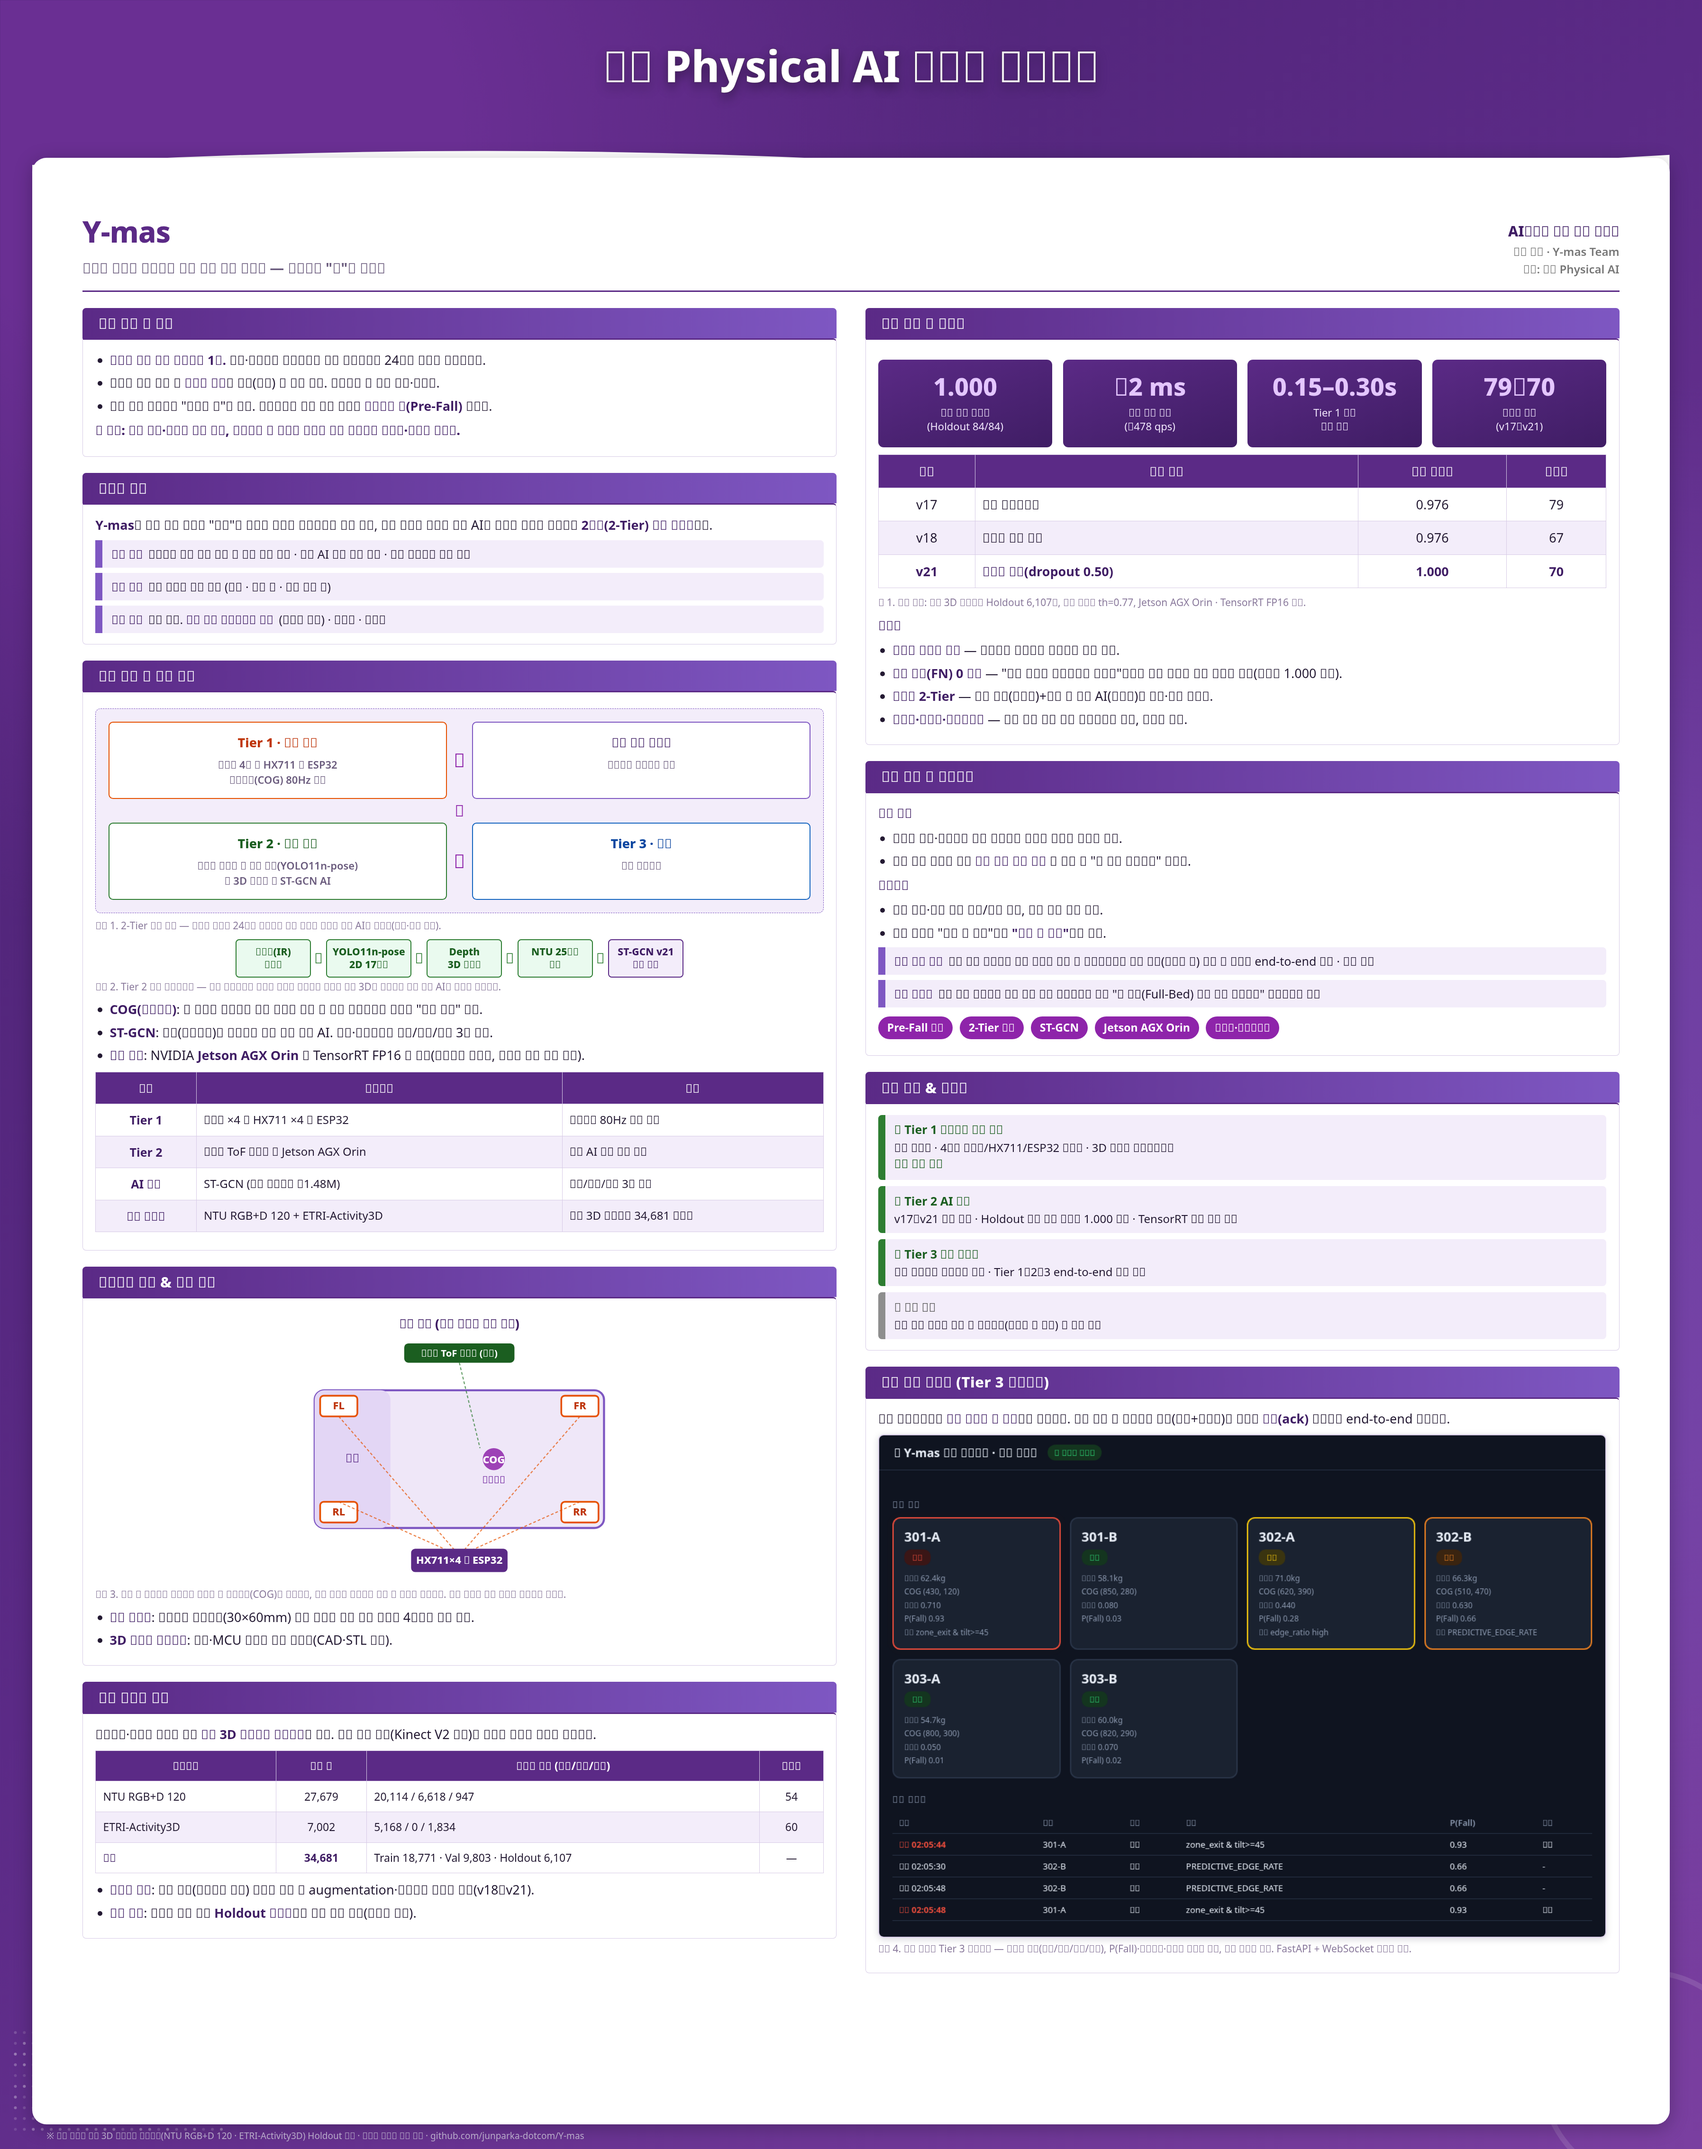
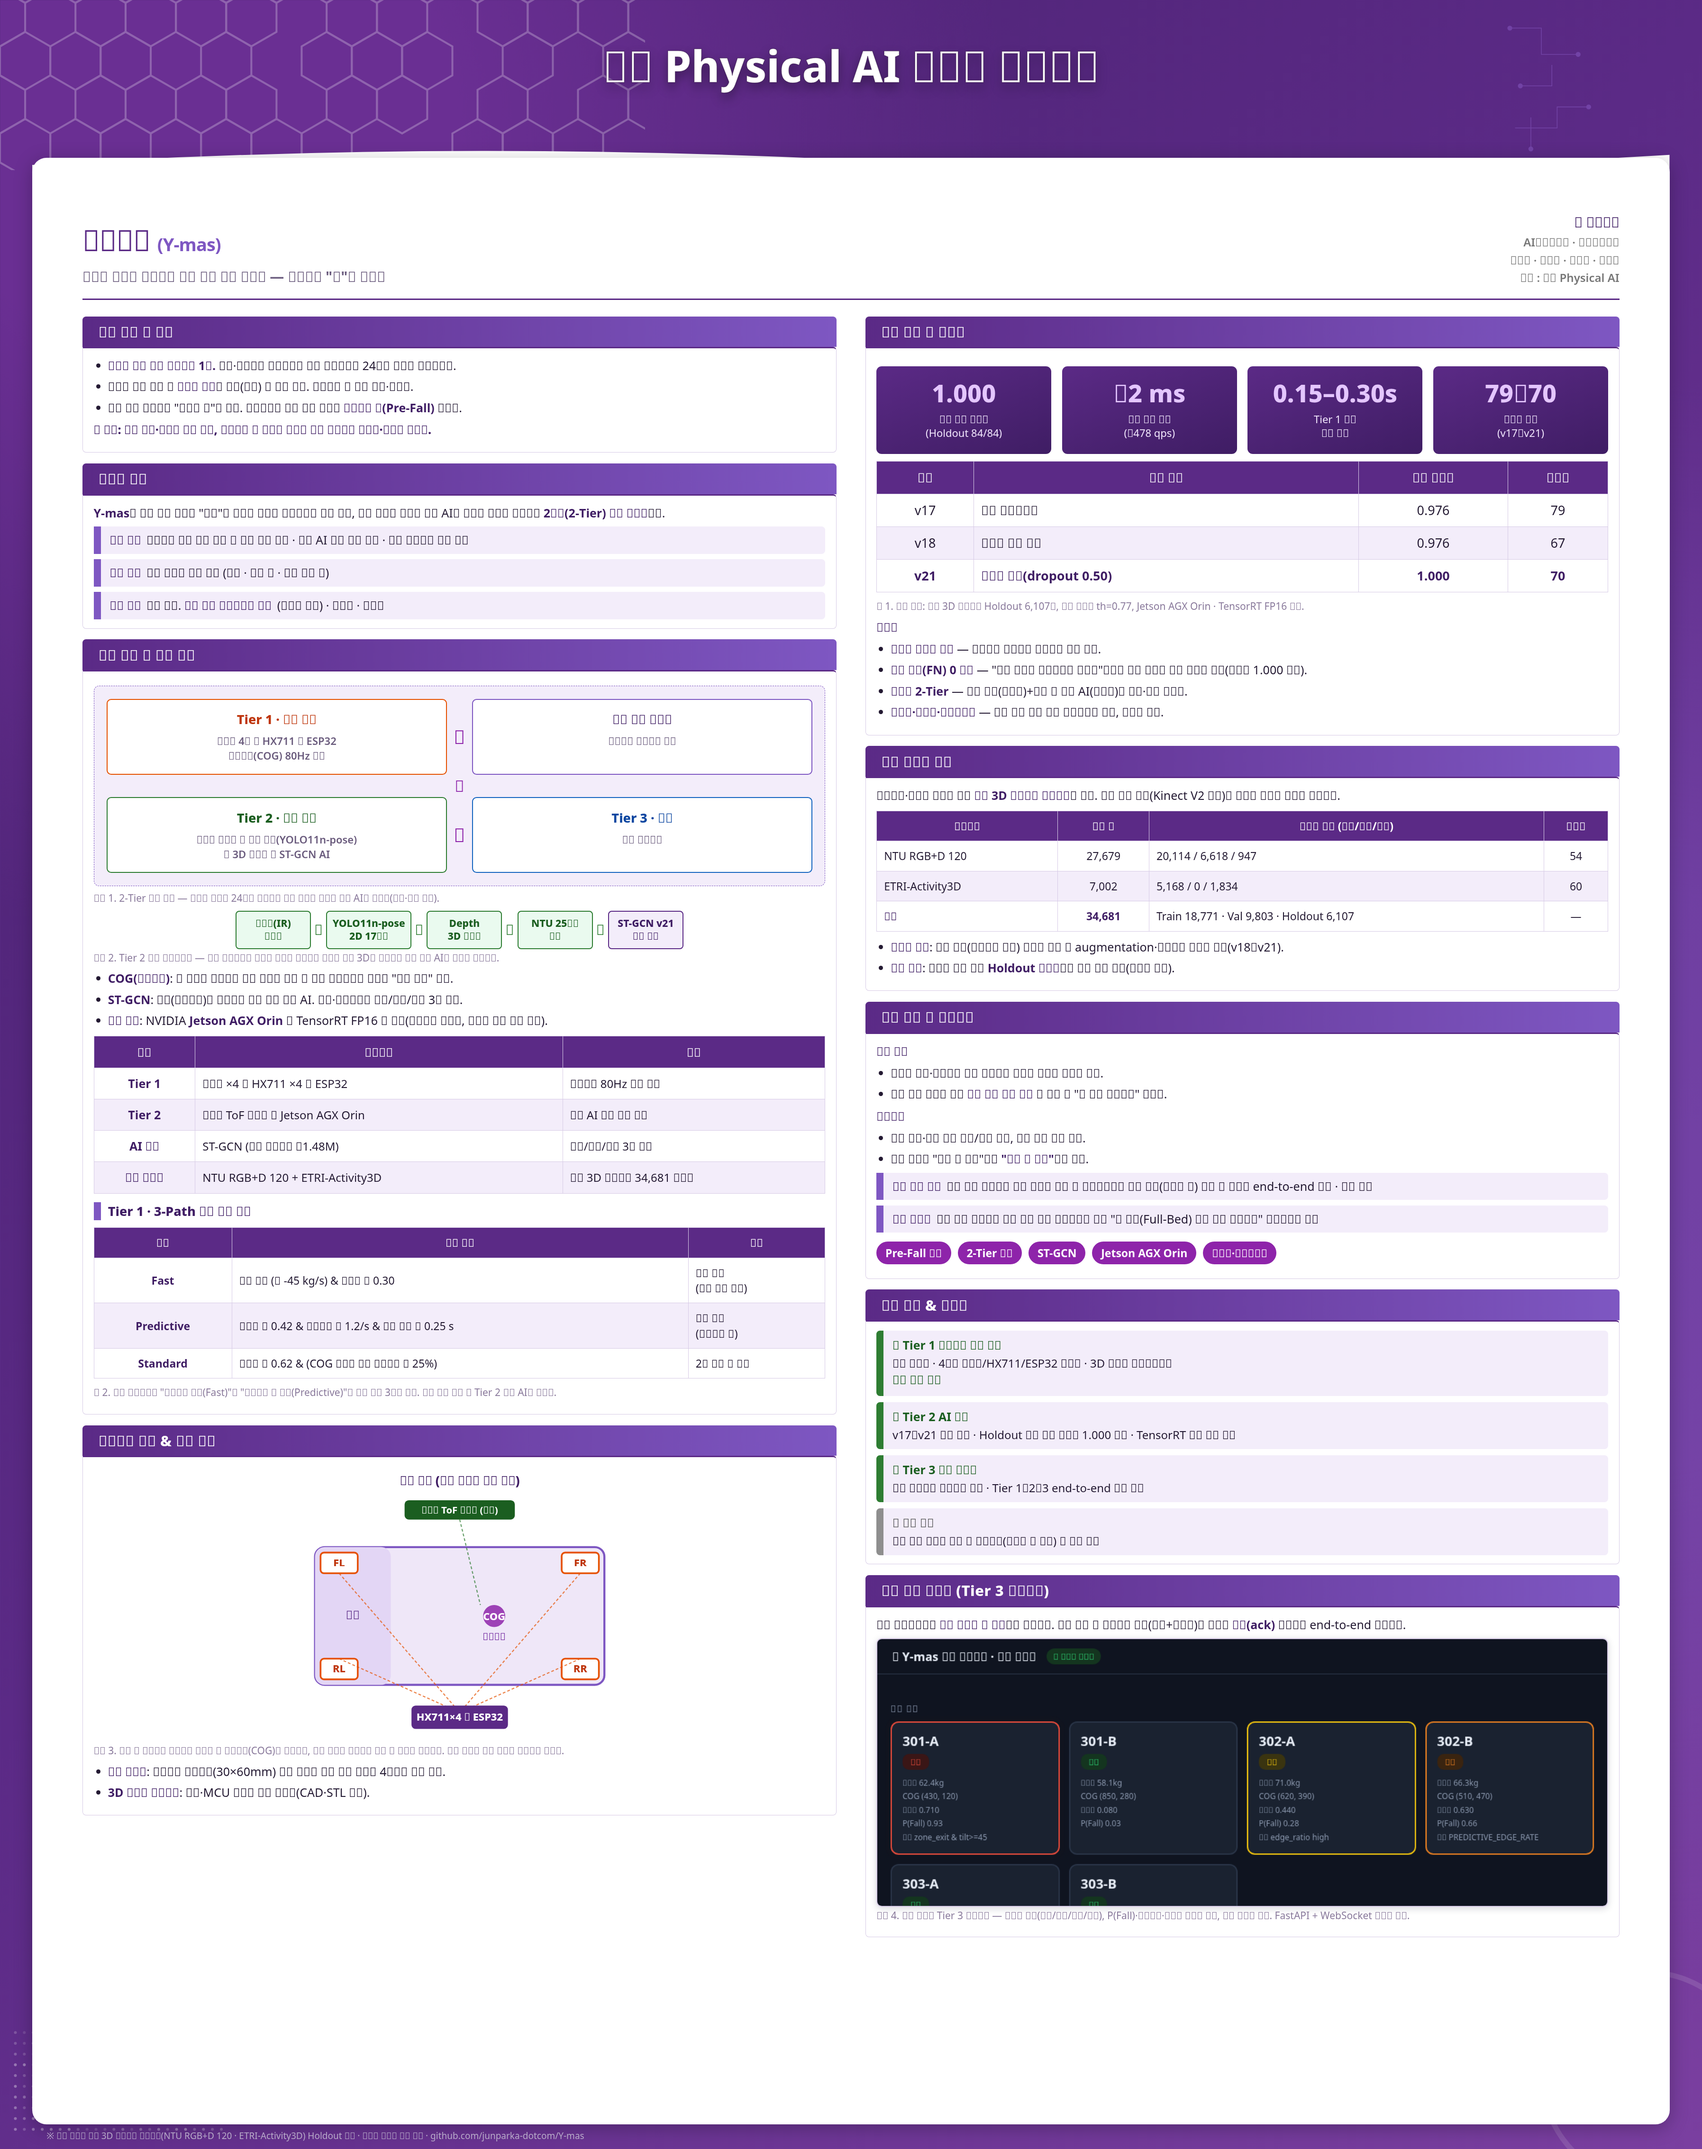
docs(poster): 참고 디자인 반영 고도화 (팀명·3-Path 로직·테크 배경)
- 프로젝트명 '골드타임 (Y-mas)' + 팀 정보(AI반도체학부·물리치료학과,
  박하람·김성경·소정우·윤지원) 반영
- 상단 육각형+회로 테크 패턴 배경 추가(Physical AI 디자인 톤)
- Tier 1 3-Path 조기 판정 로직 표 추가(Fast/Predictive/Standard, 펌웨어 실제 임계값)
- 학습 데이터 섹션을 우측으로 이동해 좌4:우5 균형 재배치
- 여백·폰트 조정으로 전체 콘텐츠를 950x1200mm 영역 안에 안착(약 20mm 여유 검증)

diff --git a/docs/poster/ymas_poster.html b/docs/poster/ymas_poster.html
@@ -50,6 +50,9 @@
     opacity:.18; }
   .dots{ position:absolute; width:120mm; height:60mm; opacity:.5; }
   .dots.bl{ bottom:8mm; left:6mm; }
+  /* 상단 테크 패턴 */
+  .hex{ position:absolute; top:0; left:0; width:360mm; height:95mm; opacity:.5; z-index:1; }
+  .circuit{ position:absolute; top:4mm; right:6mm; width:120mm; height:88mm; opacity:.6; z-index:1; }
   .ring{ position:absolute; border:3mm solid rgba(255,255,255,.12); border-radius:50%; }
   .ring.r1{ width:120mm; height:120mm; right:-30mm; bottom:-20mm; }
   .ring.r2{ width:70mm; height:70mm; right:40mm; bottom:30mm; border-color:rgba(142,36,170,.25); }
@@ -97,13 +100,14 @@
     padding-bottom:7mm; margin-bottom:9mm;
   }
   .phead .pname{ font-size:62px; font-weight:800; color:var(--purple); letter-spacing:-1px; }
+  .phead .pname .eng{ font-size:38px; color:var(--purple-l); font-weight:700; }
   .phead .pname small{ display:block; font-size:30px; color:#6a5b7d; font-weight:700; margin-top:4mm; letter-spacing:0; }
   .phead .team{ text-align:right; font-size:30px; font-weight:800; color:var(--purple-d); line-height:1.55; }
   .phead .team span{ display:block; font-size:24px; color:#777; font-weight:600; }
 
   /* ===== 2단 그리드 ===== */
   .grid{ display:grid; grid-template-columns:1fr 1fr; gap:16mm; flex:1; }
-  .colA,.colB{ display:flex; flex-direction:column; gap:9mm; }
+  .colA,.colB{ display:flex; flex-direction:column; gap:6mm; }
   .card{ display:flex; flex-direction:column; }
 
   /* 기능 박스 */
@@ -125,9 +129,9 @@
   .card .cont{
     border:1.5px solid var(--line); border-top:3px solid var(--purple);
     border-radius:0 2mm 2mm 2mm;
-    padding:6mm 7mm; font-size:27px; line-height:1.45; background:#fff;
+    padding:5mm 6mm; font-size:25px; line-height:1.4; background:#fff;
   }
-  .card .cont p{ margin:0 0 3.5mm 0; }
+  .card .cont p{ margin:0 0 3mm 0; }
   .card .cont b{ color:var(--purple-d); }
   .card .cont ul{ margin:0 0 3mm 0; padding-left:8mm; }
   .card .cont li{ margin-bottom:2.5mm; }
@@ -174,12 +178,17 @@
   table.data th, table.data td{ font-size:23px; }
   table.data td.l{ text-align:left; }
 
+  /* 서브 소제목 */
+  h4.sub{ margin:5mm 0 2mm; font-size:27px; color:var(--purple-d); font-weight:800;
+    border-left:4mm solid var(--purple-l); padding-left:4mm; }
+
   /* 설치 개념도 */
   svg.bed{ width:100%; height:auto; max-height:150mm; display:block; margin:2mm 0 3mm; }
 
   /* 플랫폼 스크린샷 */
-  img.shot{ width:100%; height:auto; display:block; border:2px solid var(--line);
-    border-radius:3mm; margin:3mm 0 2mm; box-shadow:0 1mm 4mm rgba(13,0,40,.15); }
+  img.shot{ width:100%; height:auto; max-height:150mm; object-fit:cover; object-position:top;
+    display:block; border:2px solid var(--line);
+    border-radius:3mm; margin:2mm 0 1mm; box-shadow:0 1mm 4mm rgba(13,0,40,.15); }
 
   /* 로드맵 */
   .road{ display:flex; flex-direction:column; gap:3.5mm; }
@@ -204,9 +213,20 @@
 <div class="poster">
 
   <!-- 배경 장식 -->
+  <svg class="hex" viewBox="0 0 400 300" preserveAspectRatio="xMidYMid slice">
+    <g fill="none" stroke="#ffffff" stroke-width="1.2" opacity="0.5">
+      <!-- 육각 격자 (스크립트로 채움) -->
+    </g>
+  </svg>
+  <svg class="circuit" viewBox="0 0 300 300" preserveAspectRatio="xMidYMid meet">
+    <g stroke="#b388ff" stroke-width="1.4" fill="none" opacity="0.45">
+      <path d="M10,40 H70 V90 H140"/><circle cx="10" cy="40" r="4" fill="#b388ff"/><circle cx="140" cy="90" r="4" fill="#b388ff"/>
+      <path d="M30,150 H90 V110"/><circle cx="30" cy="150" r="4" fill="#b388ff"/>
+      <path d="M20,230 H100 V190 H160"/><circle cx="160" cy="190" r="4" fill="#b388ff"/>
+      <path d="M50,270 V210"/><circle cx="50" cy="270" r="4" fill="#b388ff"/>
+    </g>
+  </svg>
   <svg class="dots bl" viewBox="0 0 240 120"><g fill="#ffffff">
-    <!-- 점 격자 -->
-    <!-- 생성 -->
   </g></svg>
   <div class="ring r1"></div>
   <div class="ring r2"></div>
@@ -229,13 +249,14 @@
     <!-- 프로젝트명 / 팀 -->
     <div class="phead">
       <div class="pname">
-        Y-mas
+        골드타임 <span class="eng">(Y-mas)</span>
         <small>침대가 스스로 감지하는 병실 낙상 <b>예측</b> 시스템 — 넘어지기 "전"에 알린다</small>
       </div>
       <div class="team">
-        AI반도체 전공 학부 연구팀
-        <span>소속 대학 · Y-mas Team</span>
-        <span>분야: 의료 Physical AI</span>
+        <b>팀 골드타임</b>
+        <span>AI반도체학부 · 물리치료학과</span>
+        <span>박하람 · 김성경 · 소정우 · 윤지원</span>
+        <span>분야 : 의료 Physical AI</span>
       </div>
     </div>
 
@@ -311,6 +332,17 @@
                 <tr><td><b>학습 데이터</b></td><td class="l">NTU RGB+D 120 + ETRI-Activity3D</td><td class="l">공개 3D 스켈레톤 34,681 시퀀스</td></tr>
               </tbody>
             </table>
+
+            <h4 class="sub">Tier 1 · 3-Path 조기 판정 로직</h4>
+            <table class="data">
+              <thead><tr><th>경로</th><th>발동 조건</th><th>동작</th></tr></thead>
+              <tbody>
+                <tr><td><b>Fast</b></td><td class="l">체중 급락 (≤ −45 kg/s) &amp; 이탈도 ≥ 0.30</td><td class="l">즉시 경보<br>(확정 절차 생략)</td></tr>
+                <tr><td><b>Predictive</b></td><td class="l">이탈도 ≥ 0.42 &amp; 증가속도 ≥ 1.2/s &amp; 임계 도달 ≤ 0.25 s</td><td class="l">선행 경보<br>(넘어지기 전)</td></tr>
+                <tr><td><b>Standard</b></td><td class="l">이탈도 ≥ 0.62 &amp; (COG 속도↑ 또는 체중감소 ≥ 25%)</td><td class="l">2회 확인 후 경보</td></tr>
+              </tbody>
+            </table>
+            <p class="foot">표 2. 하중 센서만으로 "넘어지는 순간(Fast)"과 "넘어지기 전 조짐(Predictive)"을 모두 잡는 3경로 판정. 위험 신호 발생 시 Tier 2 비전 AI를 깨운다.</p>
           </div>
         </div>
 
@@ -369,26 +401,6 @@
           </div>
         </div>
 
-        <!-- 학습 데이터 현황 -->
-        <div class="card">
-          <span class="cap">학습 데이터 현황</span>
-          <div class="cont">
-            <p>개인정보·사생활 문제가 없는 <b>공개 3D 스켈레톤 데이터셋</b>만 사용. 같은 센서 계열(Kinect V2 포맷)로 통일해 도메인 혼선을 차단했다.</p>
-            <table class="data">
-              <thead><tr><th>데이터셋</th><th>샘플 수</th><th>클래스 분포 (정상/위험/낙상)</th><th>피험자</th></tr></thead>
-              <tbody>
-                <tr><td class="l">NTU RGB+D 120</td><td>27,679</td><td class="l">20,114 / 6,618 / 947</td><td>54</td></tr>
-                <tr><td class="l">ETRI-Activity3D</td><td>7,002</td><td class="l">5,168 / 0 / 1,834</td><td>60</td></tr>
-                <tr><td class="l"><b>병합</b></td><td><b>34,681</b></td><td class="l">Train 18,771 · Val 9,803 · Holdout 6,107</td><td>—</td></tr>
-              </tbody>
-            </table>
-            <ul>
-              <li><b>데이터 과제</b>: 동적 낙상(쓰러지는 순간) 샘플이 희소 → augmentation·정규화로 일반화 확보(v18→v21).</li>
-              <li><b>검증 방식</b>: 학습에 쓰지 않은 <b>Holdout 피험자</b>로만 최종 성능 측정(과적합 차단).</li>
-            </ul>
-          </div>
-        </div>
-
       </div>
 
       <!-- ===== 오른쪽 단 ===== -->
@@ -419,6 +431,26 @@
               <li><b>놓친 낙상(FN) 0 지향</b> — "놓친 낙상이 오경보보다 치명적"이라는 임상 원칙을 지표 설계에 반영(재현율 1.000 달성).</li>
               <li><b>저전력 2-Tier</b> — 상시 센서(저연산)+필요 시 비전 AI(고연산)로 전력·비용 최소화.</li>
               <li><b>비접촉·비식별·온디바이스</b> — 영상 외부 전송 없이 엣지에서만 처리, 사생활 보호.</li>
+            </ul>
+          </div>
+        </div>
+
+        <!-- 학습 데이터 현황 -->
+        <div class="card">
+          <span class="cap">학습 데이터 현황</span>
+          <div class="cont">
+            <p>개인정보·사생활 문제가 없는 <b>공개 3D 스켈레톤 데이터셋</b>만 사용. 같은 센서 계열(Kinect V2 포맷)로 통일해 도메인 혼선을 차단했다.</p>
+            <table class="data">
+              <thead><tr><th>데이터셋</th><th>샘플 수</th><th>클래스 분포 (정상/위험/낙상)</th><th>피험자</th></tr></thead>
+              <tbody>
+                <tr><td class="l">NTU RGB+D 120</td><td>27,679</td><td class="l">20,114 / 6,618 / 947</td><td>54</td></tr>
+                <tr><td class="l">ETRI-Activity3D</td><td>7,002</td><td class="l">5,168 / 0 / 1,834</td><td>60</td></tr>
+                <tr><td class="l"><b>병합</b></td><td><b>34,681</b></td><td class="l">Train 18,771 · Val 9,803 · Holdout 6,107</td><td>—</td></tr>
+              </tbody>
+            </table>
+            <ul>
+              <li><b>데이터 과제</b>: 동적 낙상(쓰러지는 순간) 샘플이 희소 → augmentation·정규화로 일반화 확보(v18→v21).</li>
+              <li><b>검증 방식</b>: 학습에 쓰지 않은 <b>Holdout 피험자</b>로만 최종 성능 측정(과적합 차단).</li>
             </ul>
           </div>
         </div>
@@ -493,6 +525,30 @@
       s += '<circle cx="'+(c*10+5)+'" cy="'+(r*12+6)+'" r="1.6" opacity="'+(0.25+Math.random()*0.5).toFixed(2)+'"/>';
     }
     svg.innerHTML = s;
+  })();
+
+  // 상단 육각 격자 패턴 생성 (테크 배경)
+  (function(){
+    var g = document.querySelector('.hex g');
+    if(!g) return;
+    function hexPath(cx,cy,r){
+      var p="";
+      for(var i=0;i<6;i++){
+        var a=Math.PI/180*(60*i-30);
+        var x=(cx+r*Math.cos(a)).toFixed(1), y=(cy+r*Math.sin(a)).toFixed(1);
+        p += (i===0?"M":"L")+x+","+y;
+      }
+      return p+"Z";
+    }
+    var r=18, dx=r*1.732, dy=r*1.5, s="";
+    for(var row=0;row<8;row++){
+      for(var col=0;col<14;col++){
+        var cx=col*dx + (row%2? dx/2:0);
+        var cy=row*dy;
+        if(Math.random()<0.78) s+='<path d="'+hexPath(cx,cy,r)+'"/>';
+      }
+    }
+    g.innerHTML=s;
   })();
 </script>
 </body>
